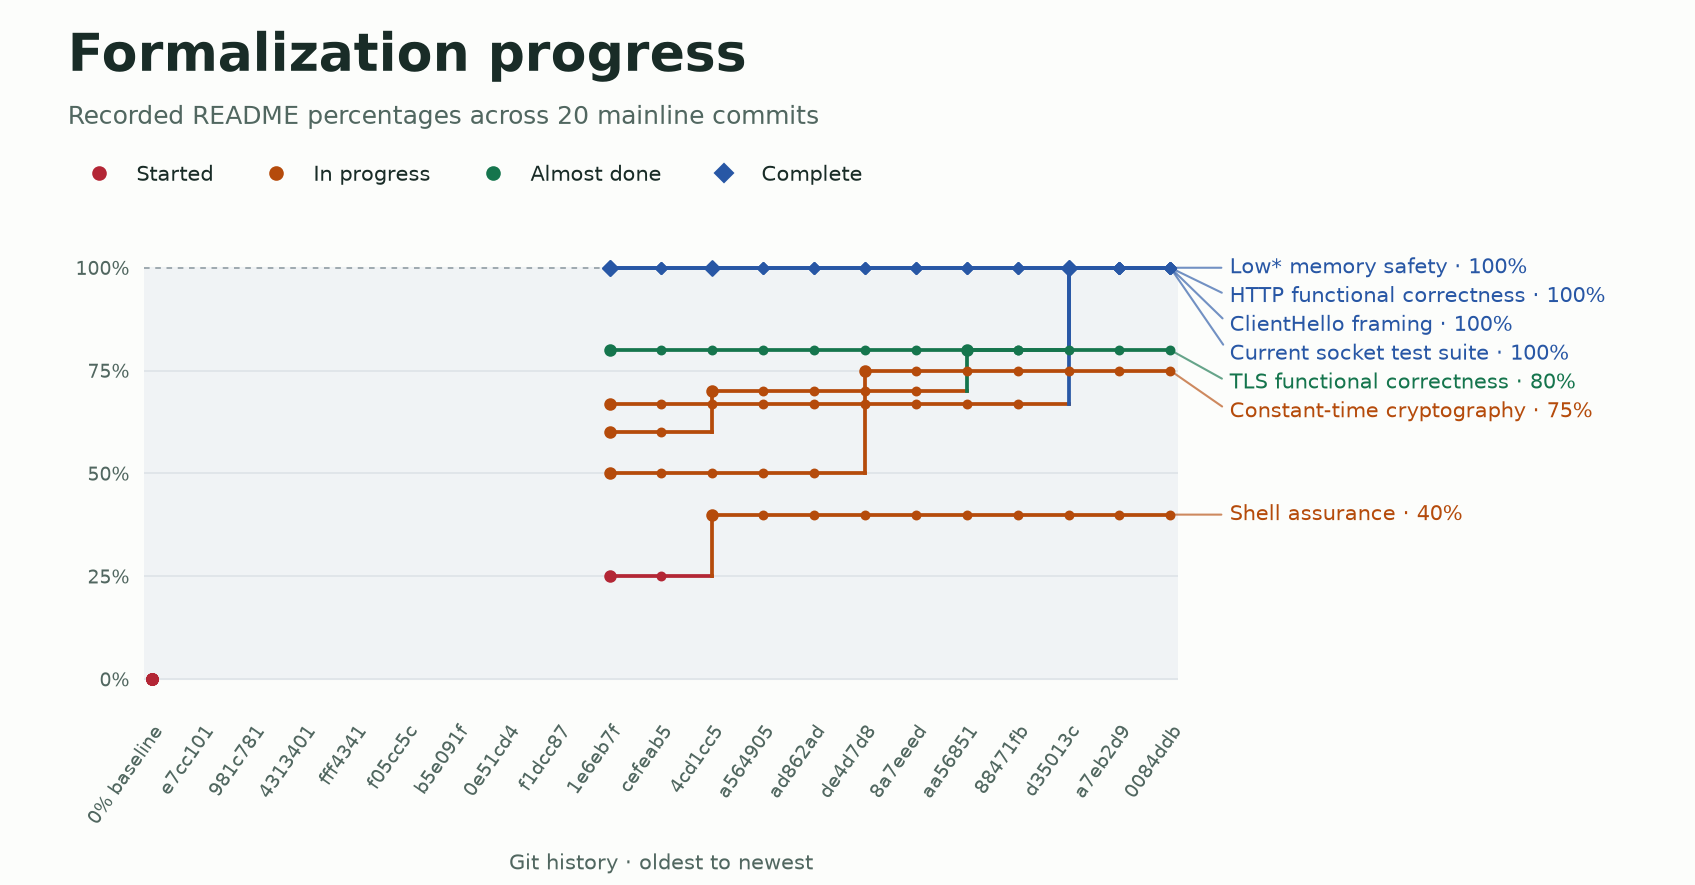
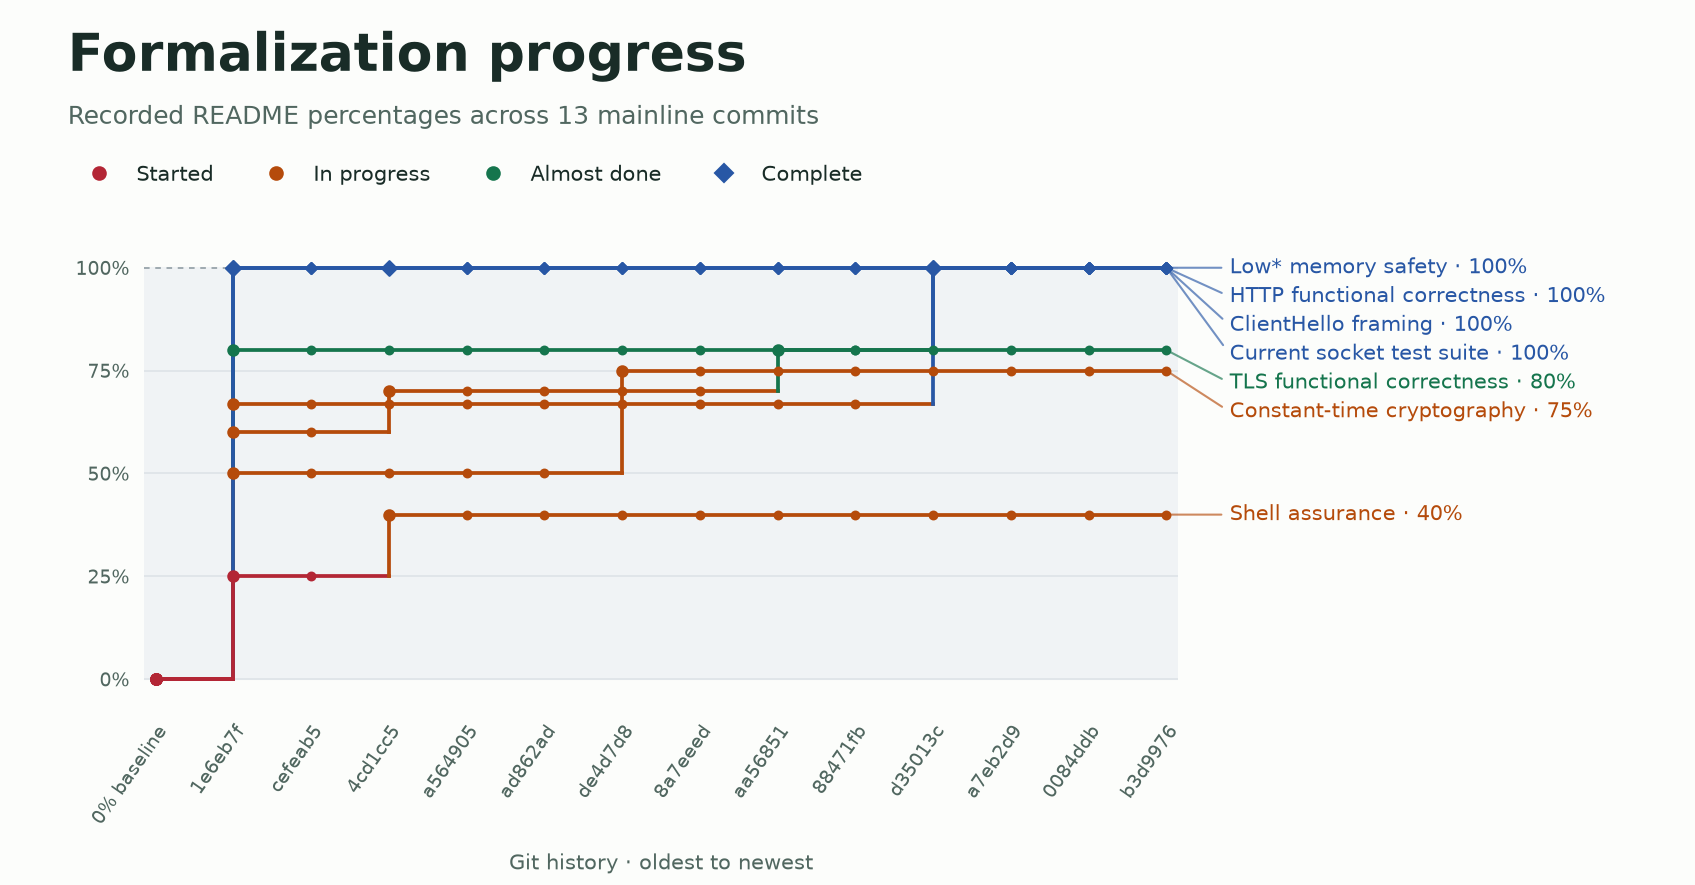
Start the progress chart at the first recorded metrics

diff --git a/tools/plot_progress.py b/tools/plot_progress.py
@@ -60,6 +60,8 @@ def history(*, committed_only=False):
             rows = {}
         snapshots.append((commit[:7], rows))
 
+    first_recorded = next((i for i, (_, rows) in enumerate(snapshots) if rows), len(snapshots))
+    snapshots = snapshots[first_recorded:]
     if not committed_only:
         working_tree = progress((ROOT / "README.md").read_text(encoding="utf-8"))
         if not snapshots or working_tree != snapshots[-1][1]:

diff --git a/README.md b/README.md
@@ -28,7 +28,7 @@ In-process fuzzing checks output bounds across 400,000 HTTP and 100,000 TLS inpu
 
 ![Seven formalization metrics on one chart, with a red 0% baseline and markers colored by README status](docs/progress.png)
 
-The chart labels every mainline commit in the snapshot. The separate red 0% baseline is a visual reference. Blue diamonds mark completed areas. Hollow markers show working-tree values when included. The Rust migration expanded the shell roadmap from four to five milestones. Regenerate the published view with `python3 tools/plot_progress.py --committed-only` using Matplotlib.
+The chart starts at the first mainline commit with a progress table and labels every mainline commit from there. The separate red 0% baseline is a visual reference. Blue diamonds mark completed areas. Hollow markers show working-tree values when included. The Rust migration expanded the shell roadmap from four to five milestones. Regenerate the published view with `python3 tools/plot_progress.py --committed-only` using Matplotlib.
 
 ## Defense in depth
 
